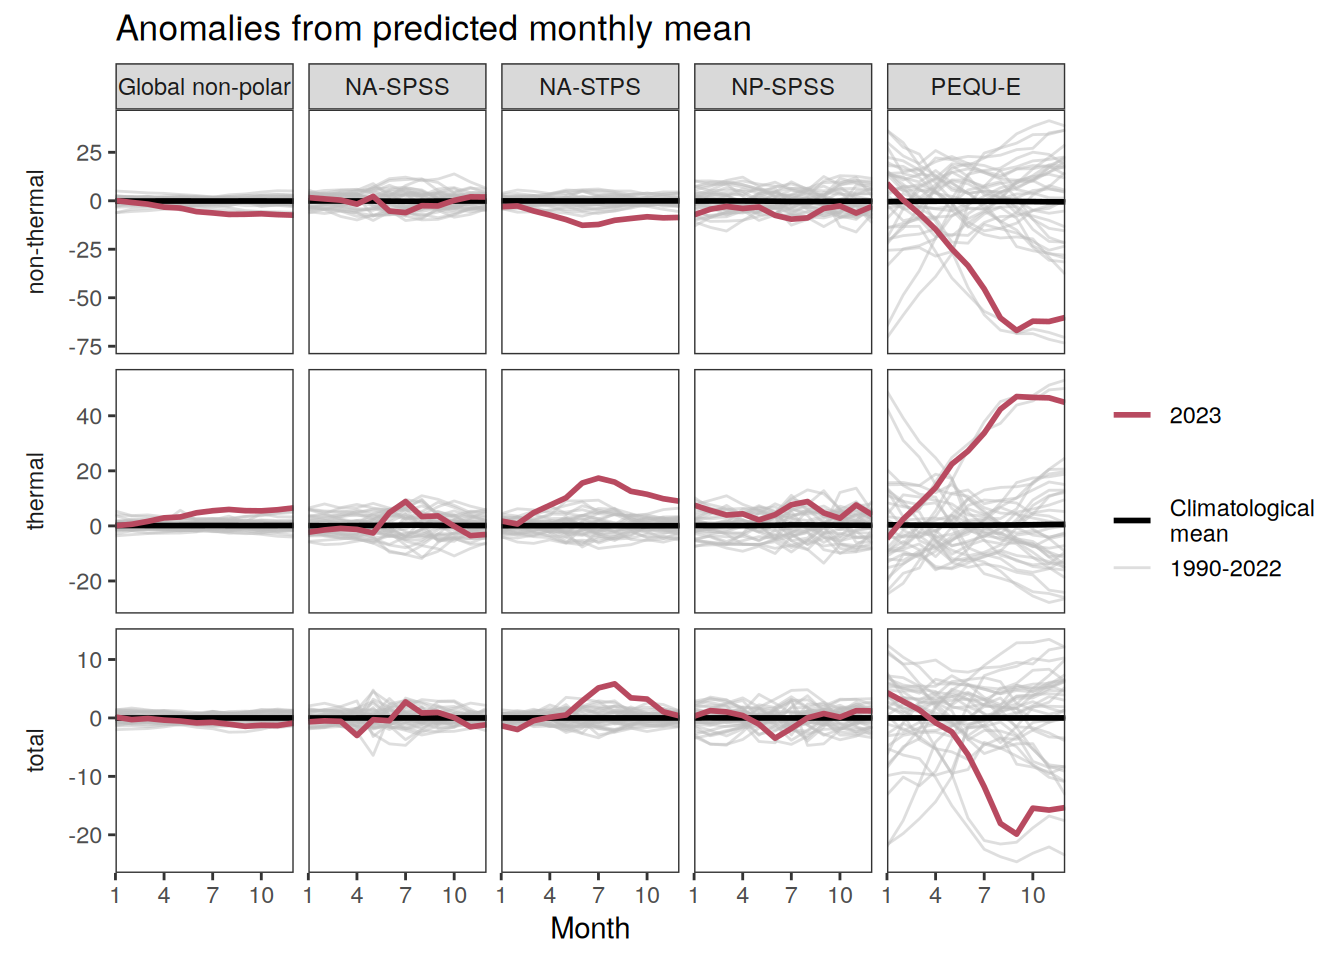
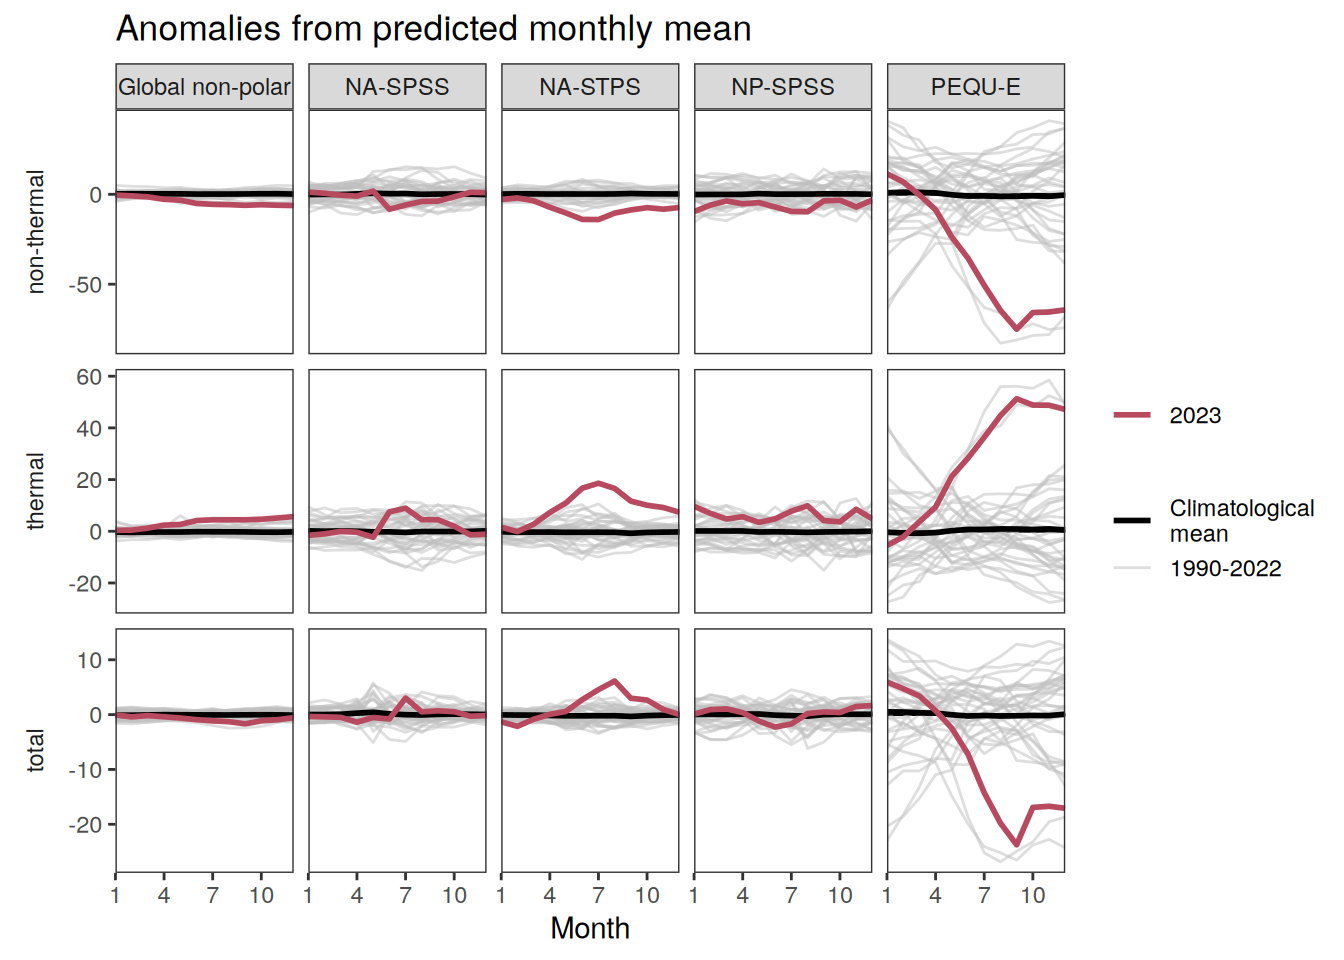
Build site.

diff --git a/docs/OceanSODA_GCB.html b/docs/OceanSODA_GCB.html
@@ -478,7 +478,7 @@ div.tocify {
 
 <h1 class="title toc-ignore">OceanSODA_GCB</h1>
 <h4 class="author">Jens Daniel Müller</h4>
-<h4 class="date">06 March, 2025</h4>
+<h4 class="date">14 March, 2025</h4>
 
 </div>
 
@@ -507,7 +507,7 @@ class="glyphicon glyphicon-ok text-success" aria-hidden="true"></span>
 <div class="tab-content">
 <div id="summary" class="tab-pane fade in active">
 <p>
-<strong>Last updated:</strong> 2025-03-06
+<strong>Last updated:</strong> 2025-03-14
 </p>
 <p>
 <strong>Checks:</strong> <span
@@ -639,15 +639,15 @@ project makes it easier to run your code on other machines.</p>
 <div class="panel panel-default">
 <div class="panel-heading">
 <p class="panel-title">
-<a data-toggle="collapse" data-parent="#workflowr-checks" href="#strongRepositoryversionstrongahrefhttpsgithubcomjensdanielmuellerheatwaveco2flux2023treedd25c0cf572b4266f1ef4f0e8af2227f5fe71cfctargetblankdd25c0ca">
+<a data-toggle="collapse" data-parent="#workflowr-checks" href="#strongRepositoryversionstrongahrefhttpsgithubcomjensdanielmuellerheatwaveco2flux2023tree42ecae0cf31ccdf926b3120f8a0d9c5c6af58d16targetblank42ecae0a">
 <span class="glyphicon glyphicon-ok text-success"
 aria-hidden="true"></span> <strong>Repository version:</strong>
-<a href="https://github.com/jens-daniel-mueller/heatwave_co2_flux_2023/tree/dd25c0cf572b4266f1ef4f0e8af2227f5fe71cfc" target="_blank">dd25c0c</a>
+<a href="https://github.com/jens-daniel-mueller/heatwave_co2_flux_2023/tree/42ecae0cf31ccdf926b3120f8a0d9c5c6af58d16" target="_blank">42ecae0</a>
 </a>
 </p>
 </div>
 <div
[2 lines of base64/hex data omitted]
 class="panel-collapse collapse">
 <div class="panel-body">
 <p>
@@ -657,7 +657,7 @@ reproducibility.
 </p>
 <p>
 The results in this page were generated with repository version
-<a href="https://github.com/jens-daniel-mueller/heatwave_co2_flux_2023/tree/dd25c0cf572b4266f1ef4f0e8af2227f5fe71cfc" target="_blank">dd25c0c</a>.
+<a href="https://github.com/jens-daniel-mueller/heatwave_co2_flux_2023/tree/42ecae0cf31ccdf926b3120f8a0d9c5c6af58d16" target="_blank">42ecae0</a>.
 See the <em>Past versions</em> tab to see a history of the changes made
 to the R Markdown and HTML files.
 </p>
@@ -678,7 +678,7 @@ Ignored files:
     Ignored:    output/
 
 Unstaged changes:
-    Modified:   analysis/_site.yml
+    Modified:   analysis/child/pCO2_product_analysis.Rmd
     Modified:   analysis/child/pCO2_product_synopsis.Rmd
     Modified:   code/Workflowr_project_managment.R
 
@@ -725,6 +725,23 @@ Message
 </tr>
 </thead>
 <tbody>
+<tr>
+<td>
+html
+</td>
+<td>
+<a href="https://rawcdn.githack.com/jens-daniel-mueller/heatwave_co2_flux_2023/0dce160edded4558baef4169a44227d3e50f3f4d/docs/OceanSODA_GCB.html" target="_blank">0dce160</a>
+</td>
+<td>
+jens-daniel-mueller
+</td>
+<td>
+2025-03-07
+</td>
+<td>
+Build site.
+</td>
+</tr>
 <tr>
 <td>
 html
@@ -3954,8 +3971,8 @@ jens-daniel-mueller
 
 gc()</code></pre>
 <pre><code>             used    (Mb) gc trigger    (Mb)   max used    (Mb)
-Ncells    4292004   229.3   34401064  1837.3  104983711  5606.8
-Vcells 1601338788 12217.3 2902006165 22140.6 2902006165 22140.6</code></pre>
+Ncells    4292022   229.3   34401476  1837.3  104984971  5606.9
+Vcells 1601339248 12217.3 2902006625 22140.6 2902006625 22140.6</code></pre>
 <pre class="r"><code>map +
   geom_tile(data = pco2_product_map_annual_fCO2_decomposition %&gt;%
               filter(year == 2023), aes(lon, lat, fill = resid)) +
@@ -4146,8 +4163,8 @@ jens-daniel-mueller
 </div>
 <pre class="r"><code>gc()</code></pre>
 <pre><code>             used    (Mb) gc trigger    (Mb)   max used    (Mb)
-Ncells    4309801   230.2   22016682  1175.9  104983711  5606.8
-Vcells 1844747841 14074.4 3482487398 26569.3 3459838342 26396.5</code></pre>
+Ncells    4309819   230.2   22016945  1175.9  104984971  5606.9
+Vcells 1844748301 14074.4 3482487950 26569.3 3459838802 26396.5</code></pre>
 <pre class="r"><code>pco2_product_map_monthly_anomaly %&gt;%
   filter(year == 2023) %&gt;%
   write_csv(
@@ -7179,11 +7196,42 @@ jens-daniel-mueller
 pco2_product_biome_monthly_fCO2_decomposition &lt;-
   full_join(pco2_product_map_monthly_fCO2_decomposition,
             biome_mask,
-            relationship = &quot;many-to-many&quot;) %&gt;% 
-  group_by(year, month, biome, name) %&gt;% 
-  summarise(resid = mean(resid, na.rm = TRUE)) %&gt;% 
-  ungroup() %&gt;% 
+            relationship = &quot;many-to-many&quot;)
+
+
+# pco2_product_biome_monthly_fCO2_decomposition_no_weight &lt;-
+#   pco2_product_biome_monthly_fCO2_decomposition %&gt;%
+#   group_by(year, month, biome, name) %&gt;%
+#   summarise(resid = mean(resid, na.rm = TRUE)) %&gt;%
+#   ungroup() %&gt;%
+#   drop_na()
+# 
+# pco2_product_biome_monthly_fCO2_decomposition_area &lt;-
+#   pco2_product_biome_monthly_fCO2_decomposition %&gt;%
+#   group_by(year, month, biome, name) %&gt;%
+#   summarise(resid = weighted.mean(resid, area, na.rm = TRUE)) %&gt;%
+#   ungroup() %&gt;%
+#   drop_na()
+
+
+# compute regional averages weighted by area and wind speed (represented by kw*sol)
+
+pco2_product_biome_monthly_fCO2_decomposition &lt;-
+  full_join(
+    pco2_product_biome_monthly_fCO2_decomposition,
+    pco2_product_map_monthly %&gt;%
+      filter(name == &quot;kw_sol&quot;) %&gt;% 
+      select(-name) %&gt;% 
+      rename(kw_sol = value)
+  )
+
+pco2_product_biome_monthly_fCO2_decomposition &lt;-
+  pco2_product_biome_monthly_fCO2_decomposition %&gt;%
+  group_by(year, month, biome, name) %&gt;%
+  summarise(resid = weighted.mean(resid, area*kw_sol, na.rm = TRUE)) %&gt;%
+  ungroup() %&gt;%
   drop_na()
+
 
 
 pco2_product_biome_annual_fCO2_decomposition &lt;-
@@ -7191,6 +7239,8 @@ pco2_product_biome_annual_fCO2_decomposition &lt;-
   group_by(year, biome, name) %&gt;%
   summarise(resid = mean(resid)) %&gt;%
   ungroup()
+  # filter(biome == &quot;Global non-polar&quot;,
+  #        year == 2023)
 
 
 pco2_product_biome_monthly_fCO2_decomposition %&gt;%

diff --git a/docs/SOM_FFN_GCB.html b/docs/SOM_FFN_GCB.html
@@ -478,7 +478,7 @@ div.tocify {
 
 <h1 class="title toc-ignore">SOM_FFN_GCB</h1>
 <h4 class="author">Jens Daniel Müller</h4>
-<h4 class="date">06 March, 2025</h4>
+<h4 class="date">14 March, 2025</h4>
 
 </div>
 
@@ -507,7 +507,7 @@ class="glyphicon glyphicon-ok text-success" aria-hidden="true"></span>
 <div class="tab-content">
 <div id="summary" class="tab-pane fade in active">
 <p>
-<strong>Last updated:</strong> 2025-03-06
+<strong>Last updated:</strong> 2025-03-14
 </p>
 <p>
 <strong>Checks:</strong> <span
@@ -639,15 +639,15 @@ project makes it easier to run your code on other machines.</p>
 <div class="panel panel-default">
 <div class="panel-heading">
 <p class="panel-title">
-<a data-toggle="collapse" data-parent="#workflowr-checks" href="#strongRepositoryversionstrongahrefhttpsgithubcomjensdanielmuellerheatwaveco2flux2023treedd25c0cf572b4266f1ef4f0e8af2227f5fe71cfctargetblankdd25c0ca">
+<a data-toggle="collapse" data-parent="#workflowr-checks" href="#strongRepositoryversionstrongahrefhttpsgithubcomjensdanielmuellerheatwaveco2flux2023tree42ecae0cf31ccdf926b3120f8a0d9c5c6af58d16targetblank42ecae0a">
 <span class="glyphicon glyphicon-ok text-success"
 aria-hidden="true"></span> <strong>Repository version:</strong>
-<a href="https://github.com/jens-daniel-mueller/heatwave_co2_flux_2023/tree/dd25c0cf572b4266f1ef4f0e8af2227f5fe71cfc" target="_blank">dd25c0c</a>
+<a href="https://github.com/jens-daniel-mueller/heatwave_co2_flux_2023/tree/42ecae0cf31ccdf926b3120f8a0d9c5c6af58d16" target="_blank">42ecae0</a>
 </a>
 </p>
 </div>
 <div
[2 lines of base64/hex data omitted]
 class="panel-collapse collapse">
 <div class="panel-body">
 <p>
@@ -657,7 +657,7 @@ reproducibility.
 </p>
 <p>
 The results in this page were generated with repository version
-<a href="https://github.com/jens-daniel-mueller/heatwave_co2_flux_2023/tree/dd25c0cf572b4266f1ef4f0e8af2227f5fe71cfc" target="_blank">dd25c0c</a>.
+<a href="https://github.com/jens-daniel-mueller/heatwave_co2_flux_2023/tree/42ecae0cf31ccdf926b3120f8a0d9c5c6af58d16" target="_blank">42ecae0</a>.
 See the <em>Past versions</em> tab to see a history of the changes made
 to the R Markdown and HTML files.
 </p>
@@ -678,7 +678,7 @@ Ignored files:
     Ignored:    output/
 
 Unstaged changes:
-    Modified:   analysis/_site.yml
+    Modified:   analysis/child/pCO2_product_analysis.Rmd
     Modified:   analysis/child/pCO2_product_synopsis.Rmd
     Modified:   code/Workflowr_project_managment.R
 
@@ -725,6 +725,23 @@ Message
 </tr>
 </thead>
 <tbody>
+<tr>
+<td>
+html
+</td>
+<td>
+<a href="https://rawcdn.githack.com/jens-daniel-mueller/heatwave_co2_flux_2023/0dce160edded4558baef4169a44227d3e50f3f4d/docs/SOM_FFN_GCB.html" target="_blank">0dce160</a>
+</td>
+<td>
+jens-daniel-mueller
+</td>
+<td>
+2025-03-07
+</td>
+<td>
+Build site.
+</td>
+</tr>
 <tr>
 <td>
 html
@@ -4336,8 +4353,8 @@ jens-daniel-mueller
 
 gc()</code></pre>
 <pre><code>             used    (Mb) gc trigger    (Mb)   max used    (Mb)
-Ncells    4292385   229.3   28266880  1509.7  107829584  5758.8
-Vcells 1828571640 13950.9 3973237685 30313.4 3973198561 30313.1</code></pre>
+Ncells    4292219   229.3   54729360  2922.9  167020744  8919.9
+Vcells 1828571841 13950.9 3996262685 30489.1 3996262685 30489.1</code></pre>
 <pre class="r"><code>map +
   geom_tile(data = pco2_product_map_annual_fCO2_decomposition %&gt;%
               filter(year == 2023), aes(lon, lat, fill = resid)) +
@@ -4539,8 +4556,8 @@ jens-daniel-mueller
 </div>
 <pre class="r"><code>gc()</code></pre>
 <pre><code>             used    (Mb) gc trigger    (Mb)   max used    (Mb)
-Ncells    4310266   230.2   22613504  1207.7  107829584  5758.8
-Vcells 2106313119 16069.9 3973237685 30313.4 3973198561 30313.1</code></pre>
+Ncells    4310212   230.2   43783488  2338.3  167020744  8919.9
+Vcells 2106313471 16069.9 3996262685 30489.1 3996262685 30489.1</code></pre>
 <pre class="r"><code>pco2_product_map_monthly_anomaly %&gt;%
   filter(year == 2023) %&gt;%
   write_csv(
@@ -8320,11 +8337,42 @@ jens-daniel-mueller
 pco2_product_biome_monthly_fCO2_decomposition &lt;-
   full_join(pco2_product_map_monthly_fCO2_decomposition,
             biome_mask,
-            relationship = &quot;many-to-many&quot;) %&gt;% 
-  group_by(year, month, biome, name) %&gt;% 
-  summarise(resid = mean(resid, na.rm = TRUE)) %&gt;% 
-  ungroup() %&gt;% 
+            relationship = &quot;many-to-many&quot;)
+
+
+# pco2_product_biome_monthly_fCO2_decomposition_no_weight &lt;-
+#   pco2_product_biome_monthly_fCO2_decomposition %&gt;%
+#   group_by(year, month, biome, name) %&gt;%
+#   summarise(resid = mean(resid, na.rm = TRUE)) %&gt;%
+#   ungroup() %&gt;%
+#   drop_na()
+# 
+# pco2_product_biome_monthly_fCO2_decomposition_area &lt;-
+#   pco2_product_biome_monthly_fCO2_decomposition %&gt;%
+#   group_by(year, month, biome, name) %&gt;%
+#   summarise(resid = weighted.mean(resid, area, na.rm = TRUE)) %&gt;%
+#   ungroup() %&gt;%
+#   drop_na()
+
+
+# compute regional averages weighted by area and wind speed (represented by kw*sol)
+
+pco2_product_biome_monthly_fCO2_decomposition &lt;-
+  full_join(
+    pco2_product_biome_monthly_fCO2_decomposition,
+    pco2_product_map_monthly %&gt;%
+      filter(name == &quot;kw_sol&quot;) %&gt;% 
+      select(-name) %&gt;% 
+      rename(kw_sol = value)
+  )
+
+pco2_product_biome_monthly_fCO2_decomposition &lt;-
+  pco2_product_biome_monthly_fCO2_decomposition %&gt;%
+  group_by(year, month, biome, name) %&gt;%
+  summarise(resid = weighted.mean(resid, area*kw_sol, na.rm = TRUE)) %&gt;%
+  ungroup() %&gt;%
   drop_na()
+
 
 
 pco2_product_biome_annual_fCO2_decomposition &lt;-
@@ -8332,6 +8380,8 @@ pco2_product_biome_annual_fCO2_decomposition &lt;-
   group_by(year, biome, name) %&gt;%
   summarise(resid = mean(resid)) %&gt;%
   ungroup()
+  # filter(biome == &quot;Global non-polar&quot;,
+  #        year == 2023)
 
 
 pco2_product_biome_monthly_fCO2_decomposition %&gt;%
